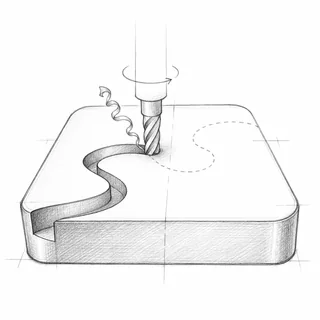
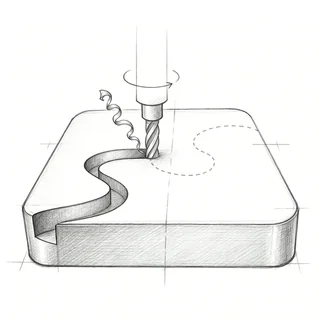
feat: nuovo disegno della fresatura rifatto da Massimo (punta dritta), versione cache 61

diff --git a/index.html b/index.html
@@ -31,8 +31,8 @@
 <script type="importmap">{"imports":{"three":"./js/vendor/three.module.min.js"}}</script>
 <link rel="preload" as="image" href="img/hero-ruota.webp" type="image/webp" fetchpriority="high">
 <link rel="modulepreload" href="js/vendor/three.module.min.js">
-<link rel="modulepreload" href="js/hero3d.js?v=60">
-<link rel="stylesheet" href="css/style.css?v=60">
+<link rel="modulepreload" href="js/hero3d.js?v=61">
+<link rel="stylesheet" href="css/style.css?v=61">
 </head>
 <body>
 
@@ -159,16 +159,16 @@
   </div>
 </footer>
 
-<script src="js/schedario.js?v=60"></script>
-<script src="js/prezzi.js?v=60"></script>
-<script src="js/testi.js?v=60"></script>
-<script src="js/i18n.js?v=60"></script>
-<script src="js/file.js?v=60"></script>
-<script src="js/app.js?v=60"></script>
+<script src="js/schedario.js?v=61"></script>
+<script src="js/prezzi.js?v=61"></script>
+<script src="js/testi.js?v=61"></script>
+<script src="js/i18n.js?v=61"></script>
+<script src="js/file.js?v=61"></script>
+<script src="js/app.js?v=61"></script>
 <script>
   /* Il disco che ruota si scarica sempre, tranne con ?disco=immagine (schizzo fermo, molto piu' leggero) */
   (function () {
-    if (!document.documentElement.classList.contains("disco-immagine")) import("./js/hero3d.js?v=60");
+    if (!document.documentElement.classList.contains("disco-immagine")) import("./js/hero3d.js?v=61");
   })();
 </script>
 </body>

diff --git a/js/app.js b/js/app.js
@@ -1060,7 +1060,7 @@
   // Immagini 3D dei quattro reparti (img/reparto-*.webp, creati da Massimo con un generatore di immagini e normalizzati: stesso esagono, quadrati 640x640)
   function fotoReparto(r, classe, miniatura) {
     var lato = miniatura ? 320 : 640;
-    return el("img", { class: classe, src: "img/" + (miniatura ? "mini-" : "reparto-") + r + ".webp?v=60", alt: "", width: lato, height: lato, loading: "lazy", decoding: "async" });
+    return el("img", { class: classe, src: "img/" + (miniatura ? "mini-" : "reparto-") + r + ".webp?v=61", alt: "", width: lato, height: lato, loading: "lazy", decoding: "async" });
   }  var tilesViste = false;
   function costruisciTile() {
     var griglia = document.getElementById("griglia-reparti");
